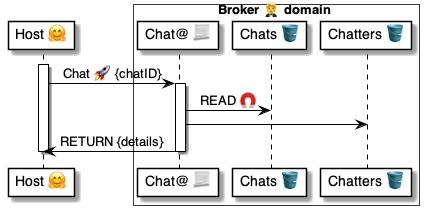
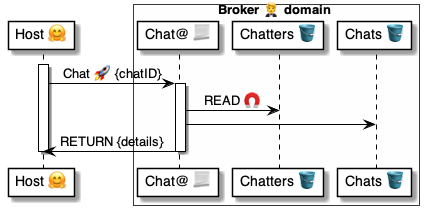
.

diff --git a/4 ⚙ Solution/20 🧑🦰 UI/Brokers 🤵/🤵🅰 Broker methods/Chats 💬 Chat 🤗🚀🤵/🤵 Chat 📃 handler.md b/4 ⚙ Solution/20 🧑🦰 UI/Brokers 🤵/🤵🅰 Broker methods/Chats 💬 Chat 🤗🚀🤵/🤵 Chat 📃 handler.md
@@ -1,4 +1,4 @@
-# 🤵📃 Chats 🚀 Broker
+# 🤵📃 Chat 🚀 Broker
 
 > [Script 📃](<🤵 Chat 🚀 request.md>)
 
@@ -12,32 +12,41 @@
 ## Script
 
 ```yaml
-📃 Chats@Broker:
+📃 Chat@Broker:
 
-# Get the wallet item
-- READ >> $wallet:
-    Set: BrokerWallets
-    Key: $.Msg.From
+# Assert the message
+- ASSERT|$.Msg:
+    - AllOf: Chat
+    - UUIDs: Chat
 
-# Verify the signature
-- VERIFY|$.Msg:
-    Key: $wallet.PublicKey
+# Verify the message
+- VERIFY|$.Msg
+
+# Get the chatter item
+- READ >> $chatter:
+    Set: BrokerChatters
+    Key: 
+        Domain: $.Msg.From
+        Chat: $.Msg.Chat
+
+# Get the chat item
+- PUT >> $chat:
+    $chatter.Chat
 
 # Prepare the response
-- PUT|$wallet.Chats >> $chats
-    Chat: Chat
-    Host: Host
-    Host$: Host$
-    SmallIcon: Host.SmallIcon
-    BigIcon: Host.BigIcon
+- PUT >> $resp:
+    $chat.ID:
+    $chat.PublicKey:
+    $chat.Language:
+    $chat.Timezone:
+    $chatter.ID:
 
 # Respond
-- RETURN:
-    Chats: $chats
+- RETURN|$resp:
 ```
 
 Uses||
 |-|-
 | [Commands ⌘](<../../../../35 💬 Chats/Scripts 📃/Command ⌘.md>) | [`$.Msg`](<../../../../37 Scripts 📃/📃 Holders 🧠/🧠 System holders/$.Msg 📨/📨 $.Msg 🧠 holder.md>) [`EVAL`](<../../../../37 Scripts 📃/📃 Commands ⌘/⌘ for holders 🧠/EVAL 🧮/🧮 EVAL ⌘ cmd.md>) [`READ`](<../../../../37 Scripts 📃/📃 Commands ⌘/⌘ for datasets 🪣/READ 🧲/🧲 READ ⌘ cmd.md>) [`RETURN`](<../../../../37 Scripts 📃/📃 Commands ⌘/⌘ for control ▶/RETURN ⤴/⤴ RETURN ⌘ cmd.md>) [`VERIFY`](<../../../../37 Scripts 📃/📃 Commands ⌘/⌘ for messages 📨/VERIFY 🔐/🔐 VERIFY ⌘ cmd.md>)
-|  [Datasets 🪣](<../../../../30 🧩 Data/Datasets 🪣/🪣 Dataset.md>) | [`Chats`](<../../🤵🪣 Broker tables/Chats 💬 table/🤵 BrokerChats 🪣 table.md>) [`Wallets`](<../../🤵🪣 Broker tables/Wallets 🧑🦰 table/🤵 BrokerWallets 🪣 table.md>)
+|  [Datasets 🪣](<../../../../30 🧩 Data/Datasets 🪣/🪣 Dataset.md>) | [`Chats`](<../../🤵🪣 Broker tables/Chats 💬 table/🤵 BrokerChats 🪣 table.md>) [`Chatters`](<../../🤵🪣 Broker tables/Chatters 👥 table/🤵 BrokerChatters 🪣 table.md>) [`Wallets`](<../../🤵🪣 Broker tables/Wallets 🧑🦰 table/🤵 BrokerWallets 🪣 table.md>)
 |

diff --git a/4 ⚙ Solution/20 🧑🦰 UI/Brokers 🤵/🤵🅰 Broker methods/Chats 💬 Chat 🤗🚀🤵/🤵 Chat 🚀 request.md b/4 ⚙ Solution/20 🧑🦰 UI/Brokers 🤵/🤵🅰 Broker methods/Chats 💬 Chat 🤗🚀🤵/🤵 Chat 🚀 request.md
@@ -1,8 +1,4 @@
-<!-- Docs: https://quip.com/HrgkAuQCqBez#temp:C:bXD09ae7595fe4943d5985d83fd0 -->
-<!-- Test: https://github.com/jorgemjfonseca/domain-trust-framework/blob/2896911396280f90ec68c32b50aa99dc4a3c90e2/python/roles/broker/BROKER_SESSIONS_TESTS.py#L10 -->
-
-
-# 🧑🦰🚀🤵 Chats @ Broker
+# 🧑🦰🚀🤵 Chat @ Broker
 
 > Implementation 
 * Implements the [Broker 🤵 domain](<../../🤵 Broker helper/🤵 Broker 🤲 helper.md>)
@@ -24,6 +20,8 @@ Header:
     From: any-host.dom
     To: any-broker.dom
     Subject: Chat@Broker
+Body:
+    Chat: <chat-uuid>
 ```
 
 | Object | Property | Type  | Description|Origin
@@ -31,6 +29,7 @@ Header:
 | Header    |`From`| uuid  | [Wallet 🧑🦰](<../../../Wallets 🧑🦰/🧑🦰 Wallet app/🧑🦰 Wallet 🛠 app.md>)  | [`Onboard@`](<../../../Notifiers 📣/📣🅰 Notifier methods/Wallets 🧑🦰 Onboard 🧑🦰🚀📣/📣 Onboard 🚀 request.md>)
 |           |`To`|domain| [Broker 🤵](<../../🤵 Broker helper/🤵 Broker 🤲 helper.md>) | [`Onboard@`](<../../../Notifiers 📣/📣🅰 Notifier methods/Wallets 🧑🦰 Onboard 🧑🦰🚀📣/📣 Onboard 🚀 request.md>)
 |           | `Subject`| string|  `Chat@Broker`
+| Body|`Chat`| uuid | [Chat 💬](<../../../../35 💬 Chats/Chats 💬/💬 Chat.md>) ID | [`Hello@Host`](<../../../../41 🎭 Domain Roles/Hosts 🤗/🤗🅰 Host methods/Hello 🤵🐌🤗/🤗 Hello 🐌 msg.md>)
 |
 
 

diff --git a/4 ⚙ Solution/37 Scripts 📃/📃 Commands ⌘/⌘ for holders 🧠/CHAT 💬/💬 CHAT 📃 script.md b/4 ⚙ Solution/37 Scripts 📃/📃 Commands ⌘/⌘ for holders 🧠/CHAT 💬/💬 CHAT 📃 script.md
@@ -9,6 +9,10 @@
     * that implements the [`CHAT` 💬 command](<💬 CHAT ⌘ cmd.md>) 
     * by setting the [`$.Chat` 💬 holder](<../../../📃 Holders 🧠/🧠 System holders/$.Chat 💬/💬 $.Chat 🧠 holder.md>).
 
+# Diagram
+
+![alt text](<💬 CHAT ⚙ uml.png>)
+
 ## How to run
 
 ```yaml
@@ -60,3 +64,12 @@ Uses||
 |[Datasets 🪣](<../../../../30 🧩 Data/Datasets 🪣/🪣 Dataset.md>) | [`HostChats`](<../../../../41 🎭 Domain Roles/Hosts 🤗/🤗🪣 Host tables/Chats 💬 table/🤗 HostChats 🪣 table.md>)
 [Holders 🧠](<../../../../35 💬 Chats/Scripts 📃/Holder 🧠.md>) | [`$.Chat` 🧠 holder](<../../../📃 Holders 🧠/🧠 System holders/$.Chat 💬/💬 $.Chat 🧠 holder.md>)
 |
+
+## FAQ
+
+1. **Why update instead of overwriting?**
+
+    There's an `Emoji` property managed by the [`EMOJI`](<../../../../35 💬 Chats/Prompts 🤔/🤔✏ Prompt inputs/😶⌘ EMOJI cmd.md>) command that needs to survive concurrent changes.
+
+    ---
+    <br/>
